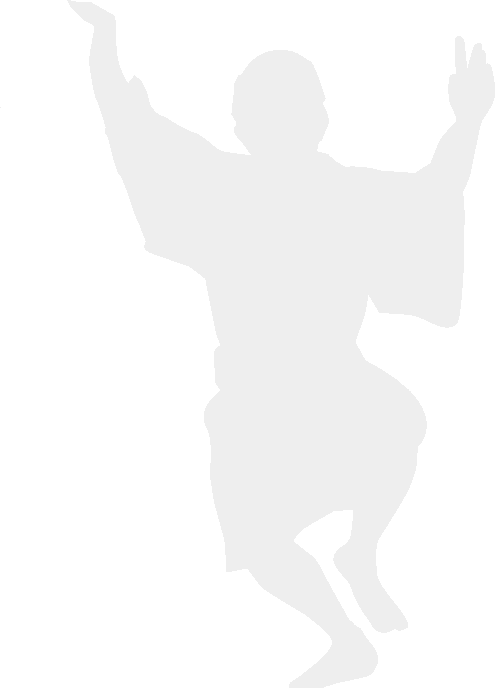
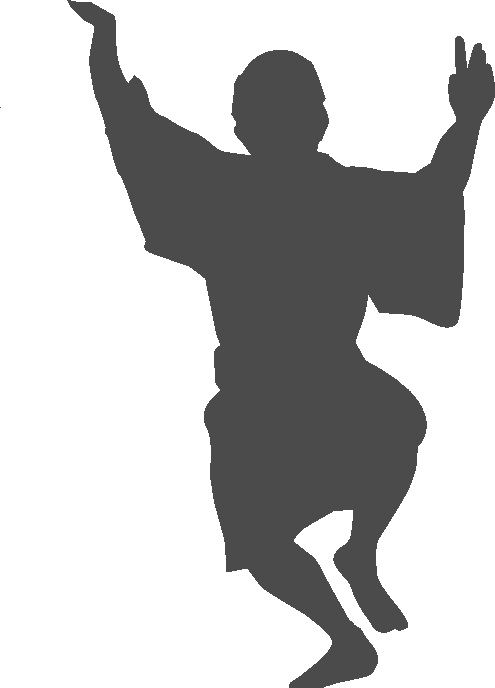
fix(ui): 構えのお手本シルエットを濃い灰色に塗り替え、明るい場所でも見やすく
元アセットは白寄りの薄い灰色な上、アルファが約130/255の半透明で
書き出されていた(component側のopacityを上げても効果が薄かった原因)。
RGBを#4B4B4Bに塗り替え、形のある場所のアルファも255(不透明)に
修正。Image の tintColor は Expo Web で効かなかったため、
アセット側の色そのものを変更する方式にした。

diff --git a/Ren-kei_procon/src/components/StancePoseGuide.tsx b/Ren-kei_procon/src/components/StancePoseGuide.tsx
@@ -22,6 +22,9 @@ const ROTATE = '10deg';
 // カメラ画面に収まるよう少し小さくし、左寄りに置く(等身大だと画面からはみ出すため)
 const IMAGE_WIDTH = '78%';
 const IMAGE_HEIGHT = '82%';
+// 画像自体がやや濃いめの灰色(#4B4B4B)で書き出されているため、
+// 明るい場所(白飛びした映像)でも見分けやすい
+// (Image の tintColor は Expo Web では効かないため、アセット側で着色している)
 
 export function StancePoseGuide({
   scorePart,
